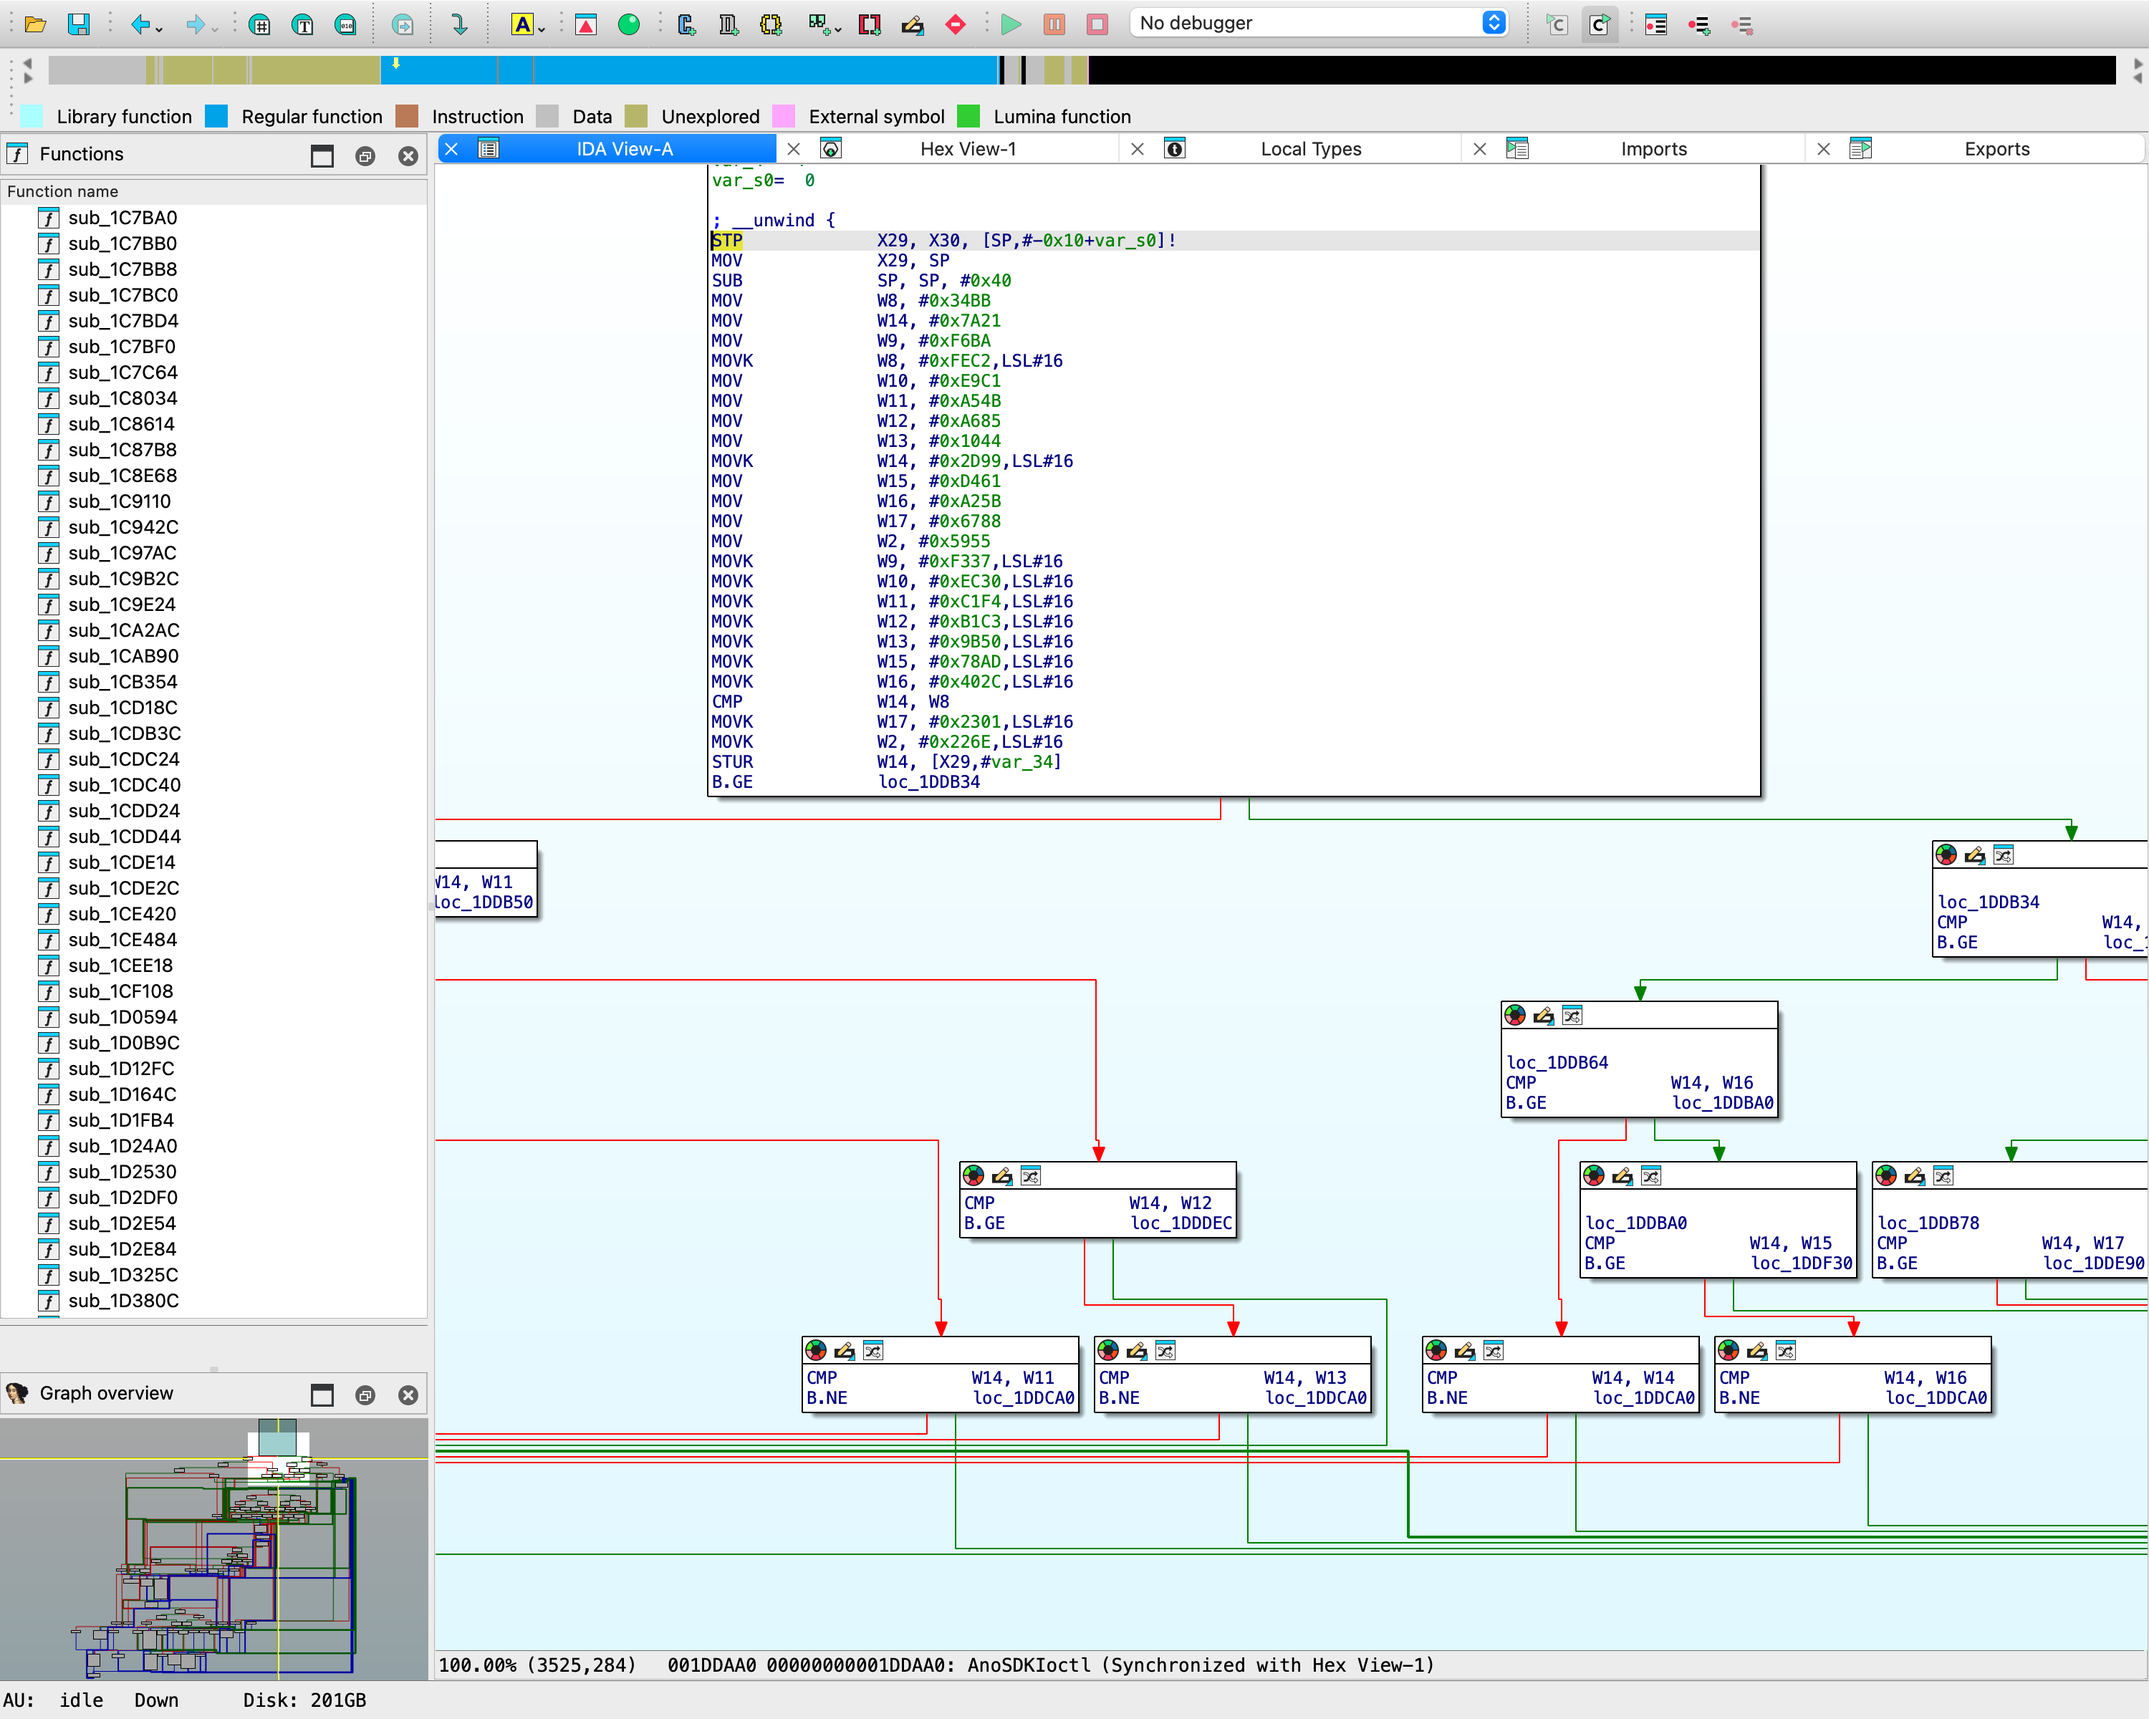
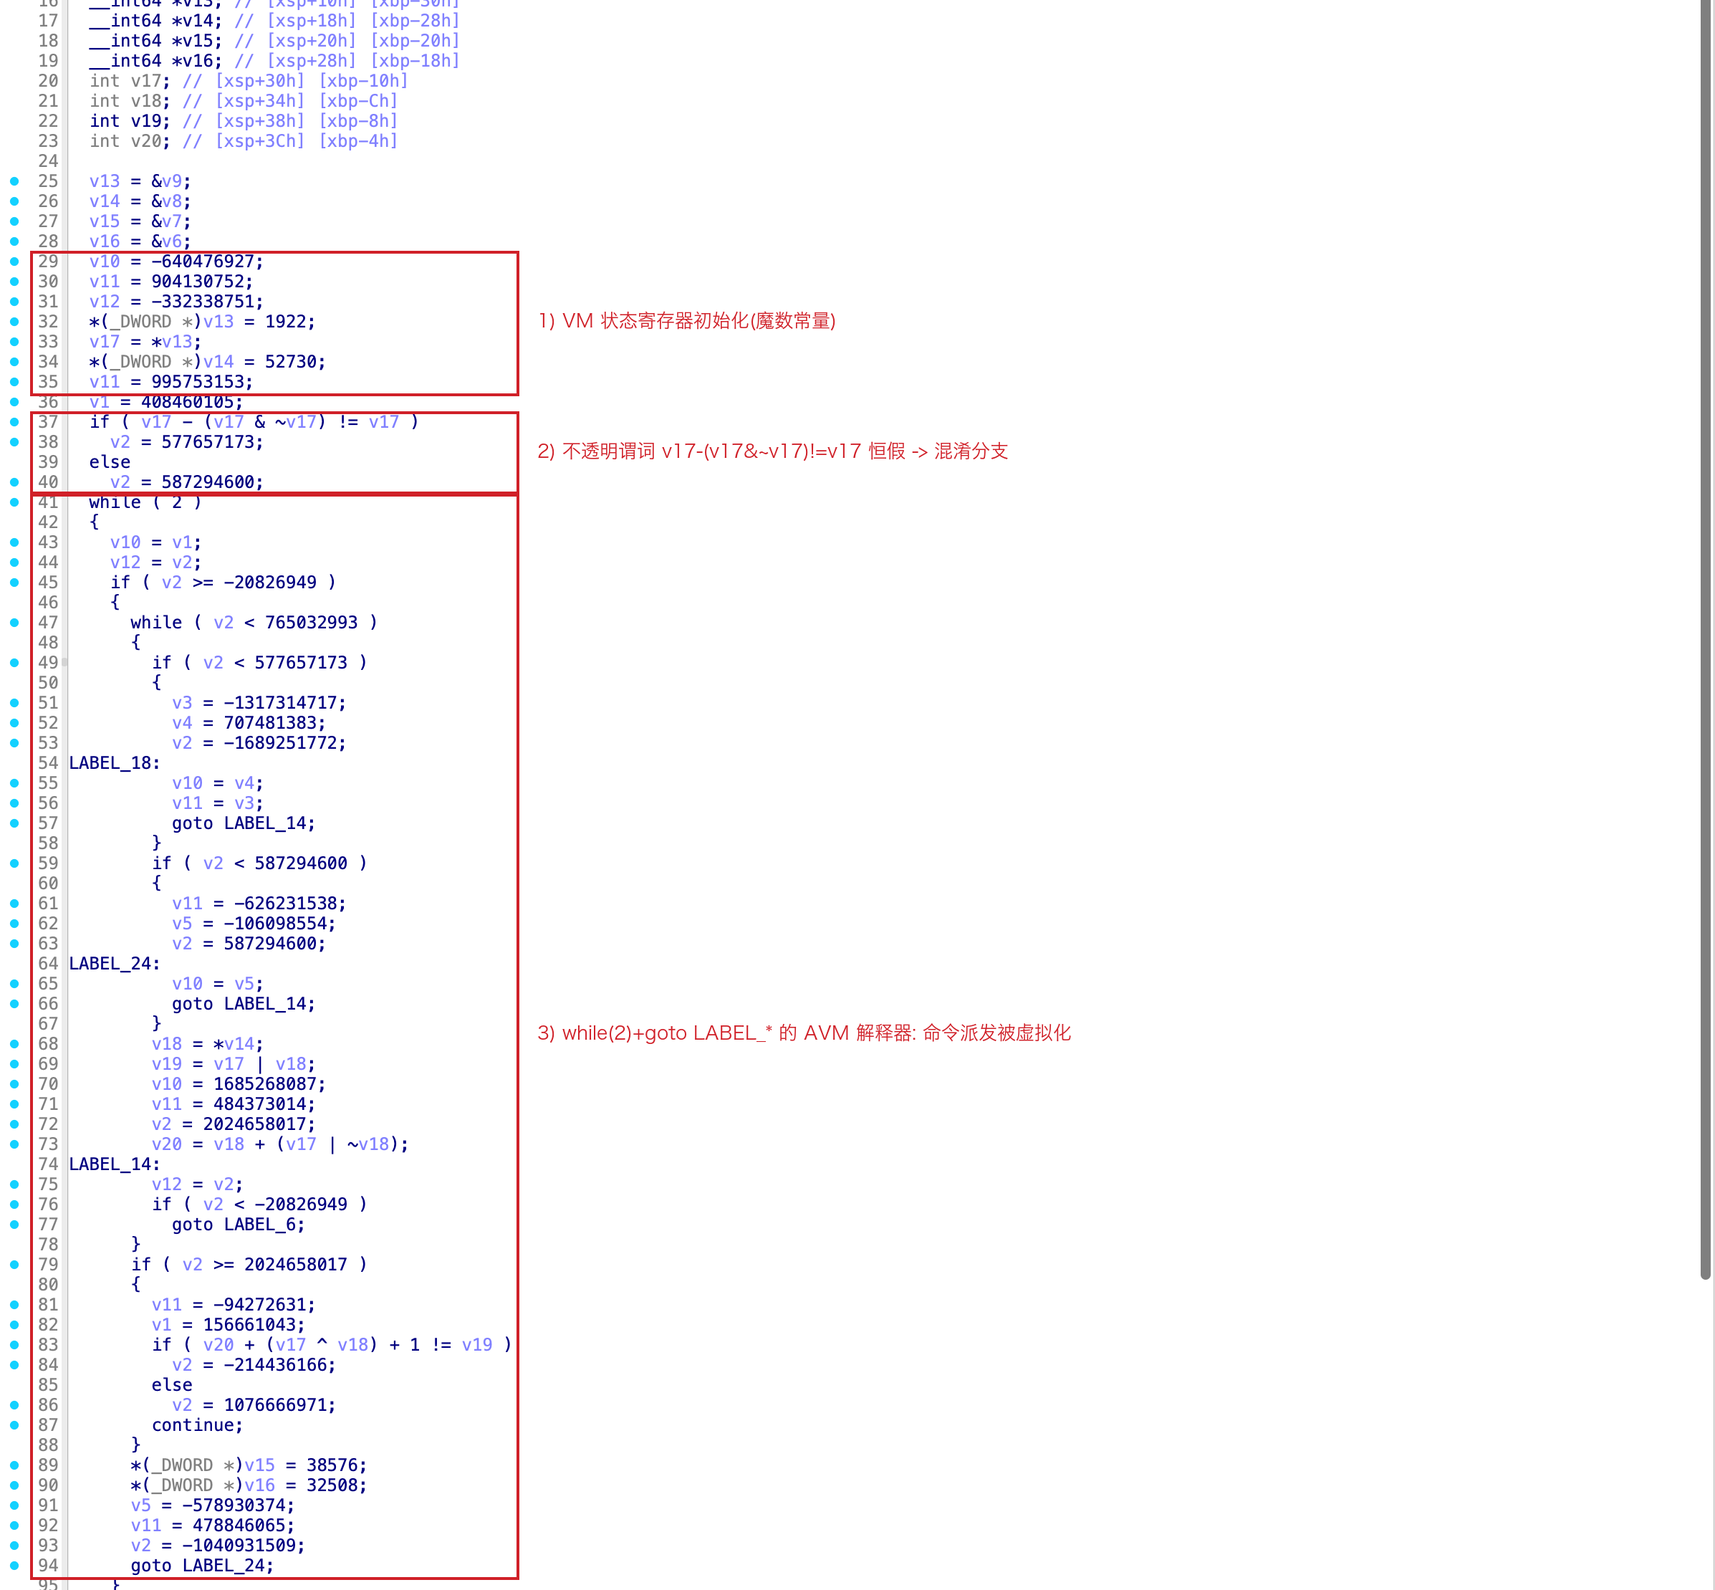
Swap IDA disasm figures for annotated F5 pseudocode (ACE AVM + JNI_OnLoad)

diff --git a/src/content/posts/unity-shooter-ace-metadata/index.md b/src/content/posts/unity-shooter-ace-metadata/index.md
@@ -42,17 +42,17 @@ source: 发表文章/某Unity枪战手游-腾讯ACE与加固metadata取证/index
 
 ![ACE identity and command vocabulary in libanogs.so](./assets/images-03-ace-strings.png)
 
-这些命令字在 native 侧进入 `AnoSDKIoctl` 分发。IDA 里能看到它并不做明文 `strcmp`，而是把命令 hash 成 u32，再用一棵 `CMP / B.GE / B.NE` 比较树逐级分发（图中 `W14` 依次与 `0x34BB`/`0x7A21`/`0xF6BA`… 一堆常量比较）：
+这些命令字在 native 侧进入 `AnoSDKIoctl` 分发。但用 IDA F5 反编译它，出来的不是干净的分支，而是一坨状态机：`v10/v11/v12` 充当 VM 状态寄存器、满屏魔数常量、`while(2)` + `goto LABEL_*` 的解释器循环，中间还夹着 `v17-(v17&~v17)!=v17` 这类**恒假的不透明谓词**做混淆。这就是 ACE 的 **AVM(自研字节码虚拟机)**——命令派发与检测逻辑被整体虚拟化，静态读不到真实分支：
 
-![AnoSDKIoctl — hashed-command dispatch tree in IDA](./assets/images-07-ida-anosdk-ioctl.png)
+![AnoSDKIoctl decompiled — the logic is virtualized into ACE's AVM](./assets/images-07-ida-anosdk-ioctl.png)
 
 Java 侧桥类 `com.gamesafe.ano.AnoSdk` 负责 `loadLibrary("anogs")` 与全部 native 调用。它的 ioctl 命令字用 **+5 凯撒**做了轻混淆——`a.a("bzo_mzkjmo_yvov")` → `get_report_data`、`a.a("vkk_fzt:")` → `app_key:`、`dec_tss_info`(tss = TenProtect Security)：
 
 ![AnoSdk — the Java↔native bridge of Tencent ACE](./assets/images-01-anosdk.png)
 
-native 侧的引导落在 `JNI_OnLoad`：取 `JavaVM` → `GetEnv`(通过 vtable 偏移间接调用) → `FindClass` / `RegisterNatives` 把上面那些 native 方法注册进去，随后启动 ACE：
+native 侧的引导落在 `JNI_OnLoad`(F5)：取 `JavaVM` → `GetEnv` → 两次 `FindClass` + `RegisterNatives`（分别注册 3 个和 11 个 native，即上面 `AnoSdk` 那批），随后启动 ACE：
 
-![JNI_OnLoad — registers AnoSdk natives and boots ACE](./assets/images-08-ida-jni-onload.png)
+![JNI_OnLoad decompiled — FindClass + RegisterNatives(3) then (11)](./assets/images-08-ida-jni-onload.png)
 
 检测结果经 `AnoInfoPublisher` 这条异步管道回吐给游戏：后台线程开一条到 native 的 IPC 管道(`ilc_open_pipe`/`ilc_recv_pipe`/`ilc_close_pipe`)，循环 `recv` 检测报文，`type=1` 为命中、`2` 为心跳，派发给注册的 `AnoInfoReceiver`，最终触发踢人：
 
@@ -62,7 +62,7 @@ native 侧的引导落在 `JNI_OnLoad`：取 `JavaVM` → `GetEnv`(通过 vtable
 
 ![libanort.so anti-debug / anti-injection toolkit](./assets/images-06-libanort-antidebug.png)
 
-需要说明的是：ACE 的**检测逻辑本体跑在它自带的字节码 VM(mvm/AVM)里**——上面这些 import 存在，但调用点经 VM 分发，直接反汇编到不了逻辑层。这也是为什么静态扫 `libanogs.so` 只能漏出零星特征串。不 devirtualize AVM，静态深度到此为止。
+所以 `libanort` 里 `ptrace`/`fork`/`syscall` 这些 import 虽在，调用点却和 `AnoSDKIoctl` 一样经 AVM 分发，直接反汇编到不了逻辑层——这也是静态扫 `libanogs.so` 只能漏出零星特征串的原因。不 devirtualize AVM，静态深度到此为止。
 
 ## L2：加固对 metadata 做了什么，以及怎么绕过
 
